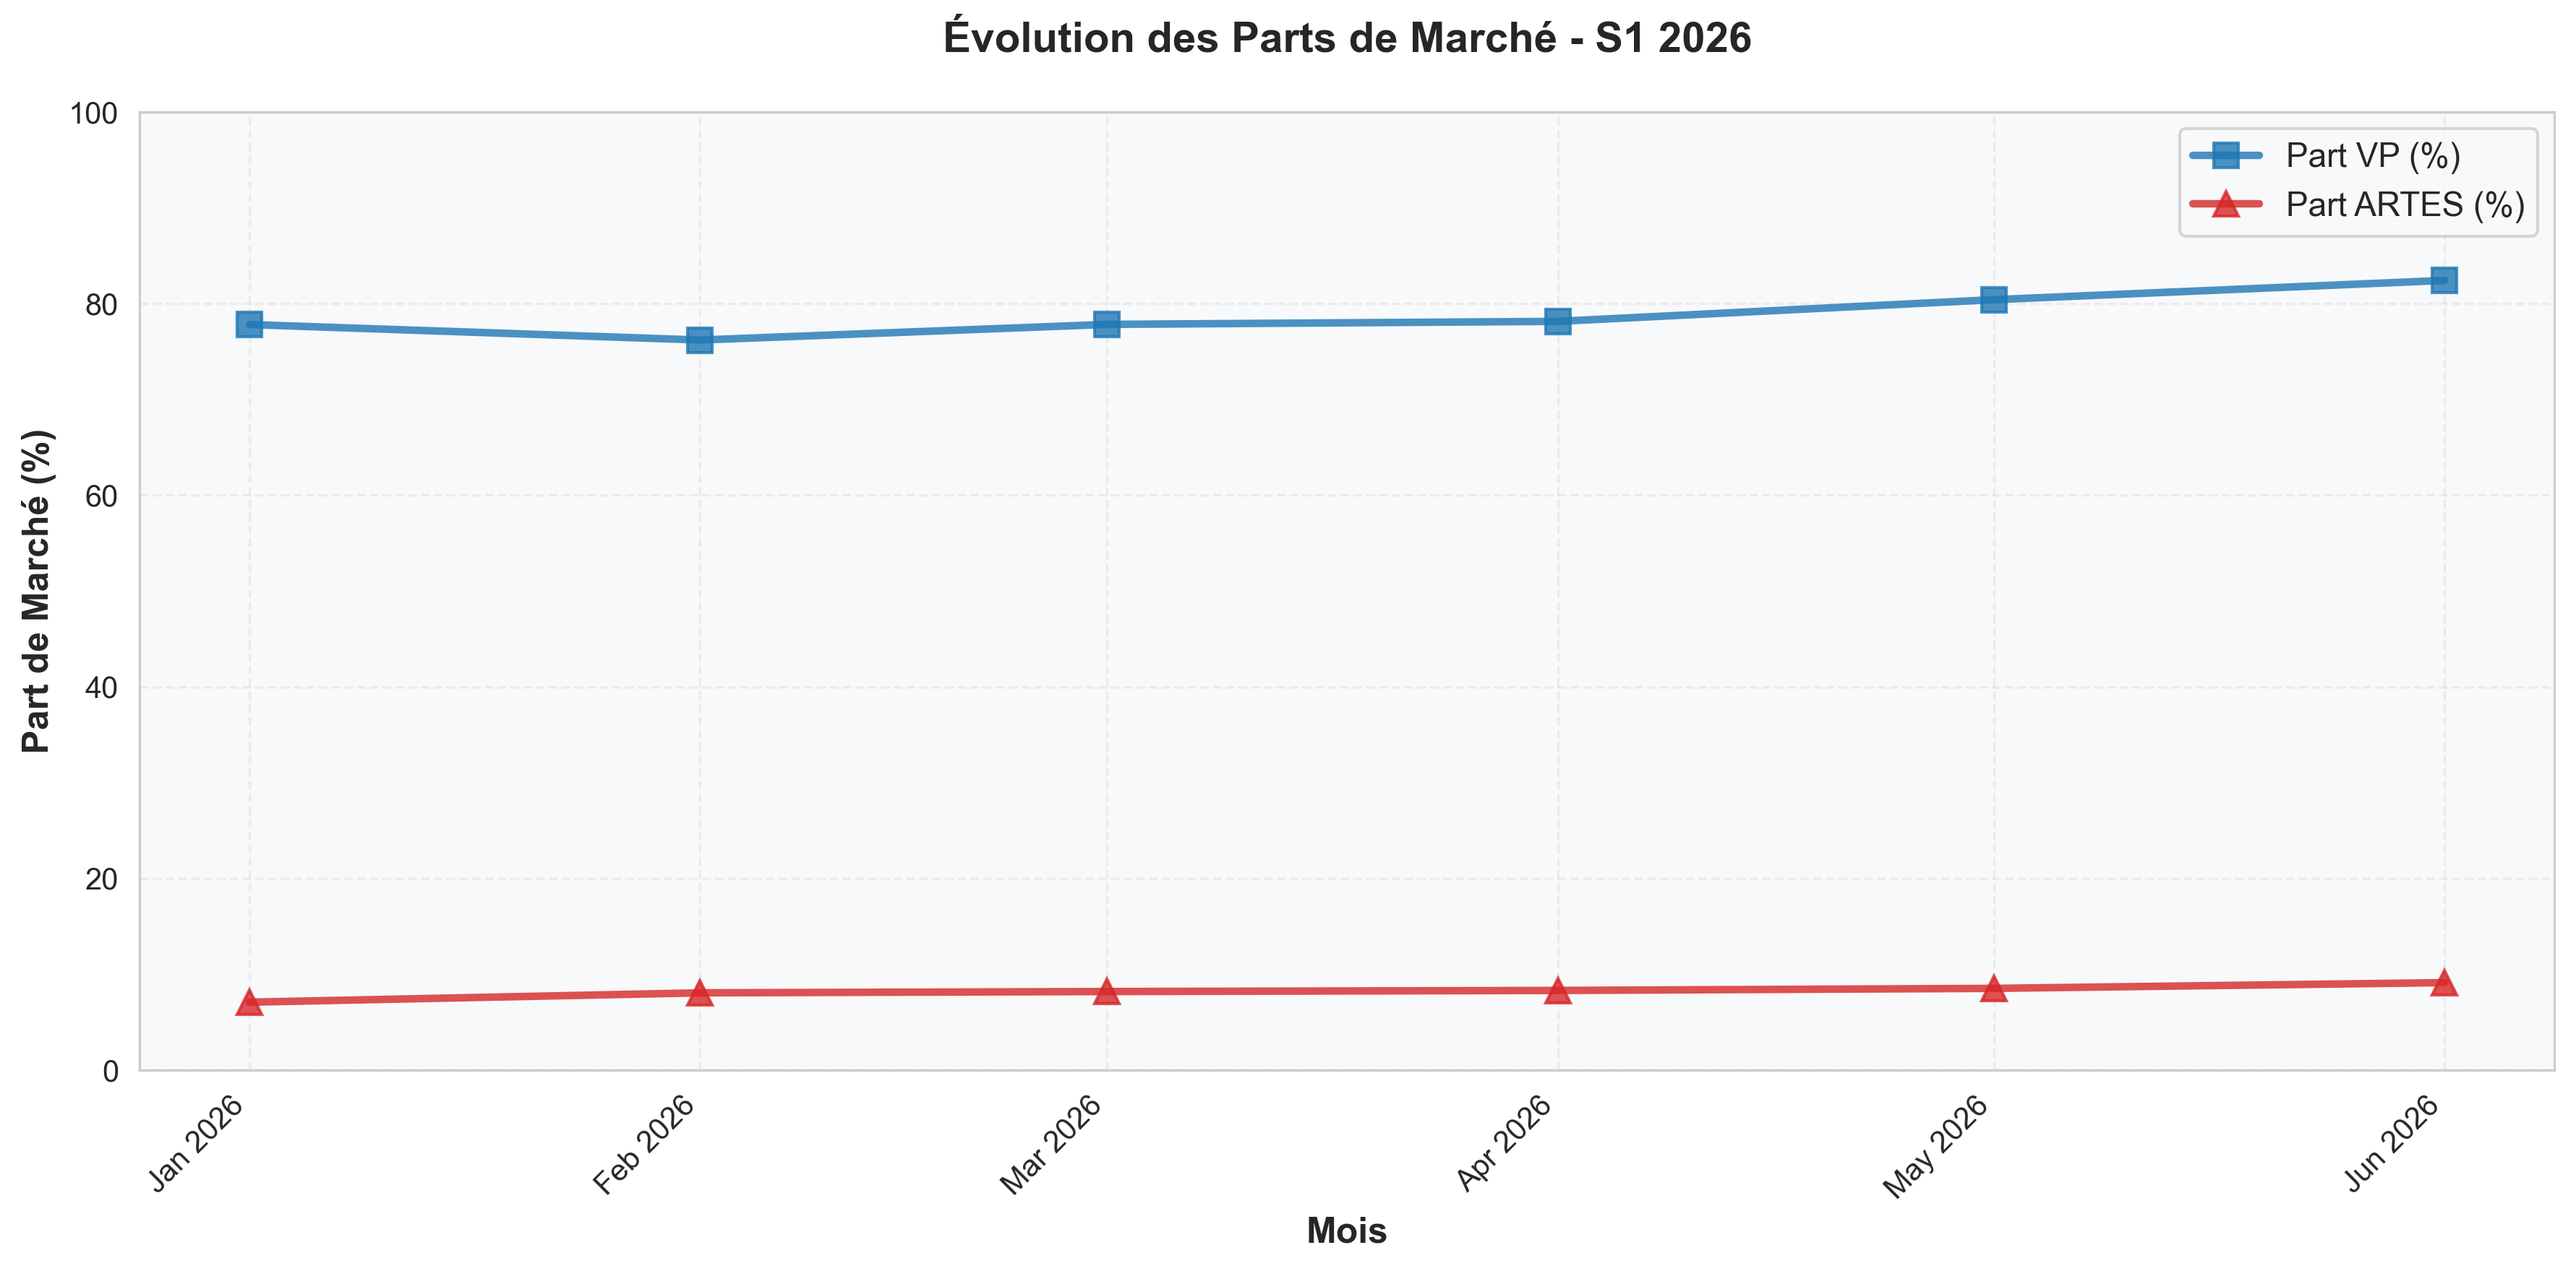
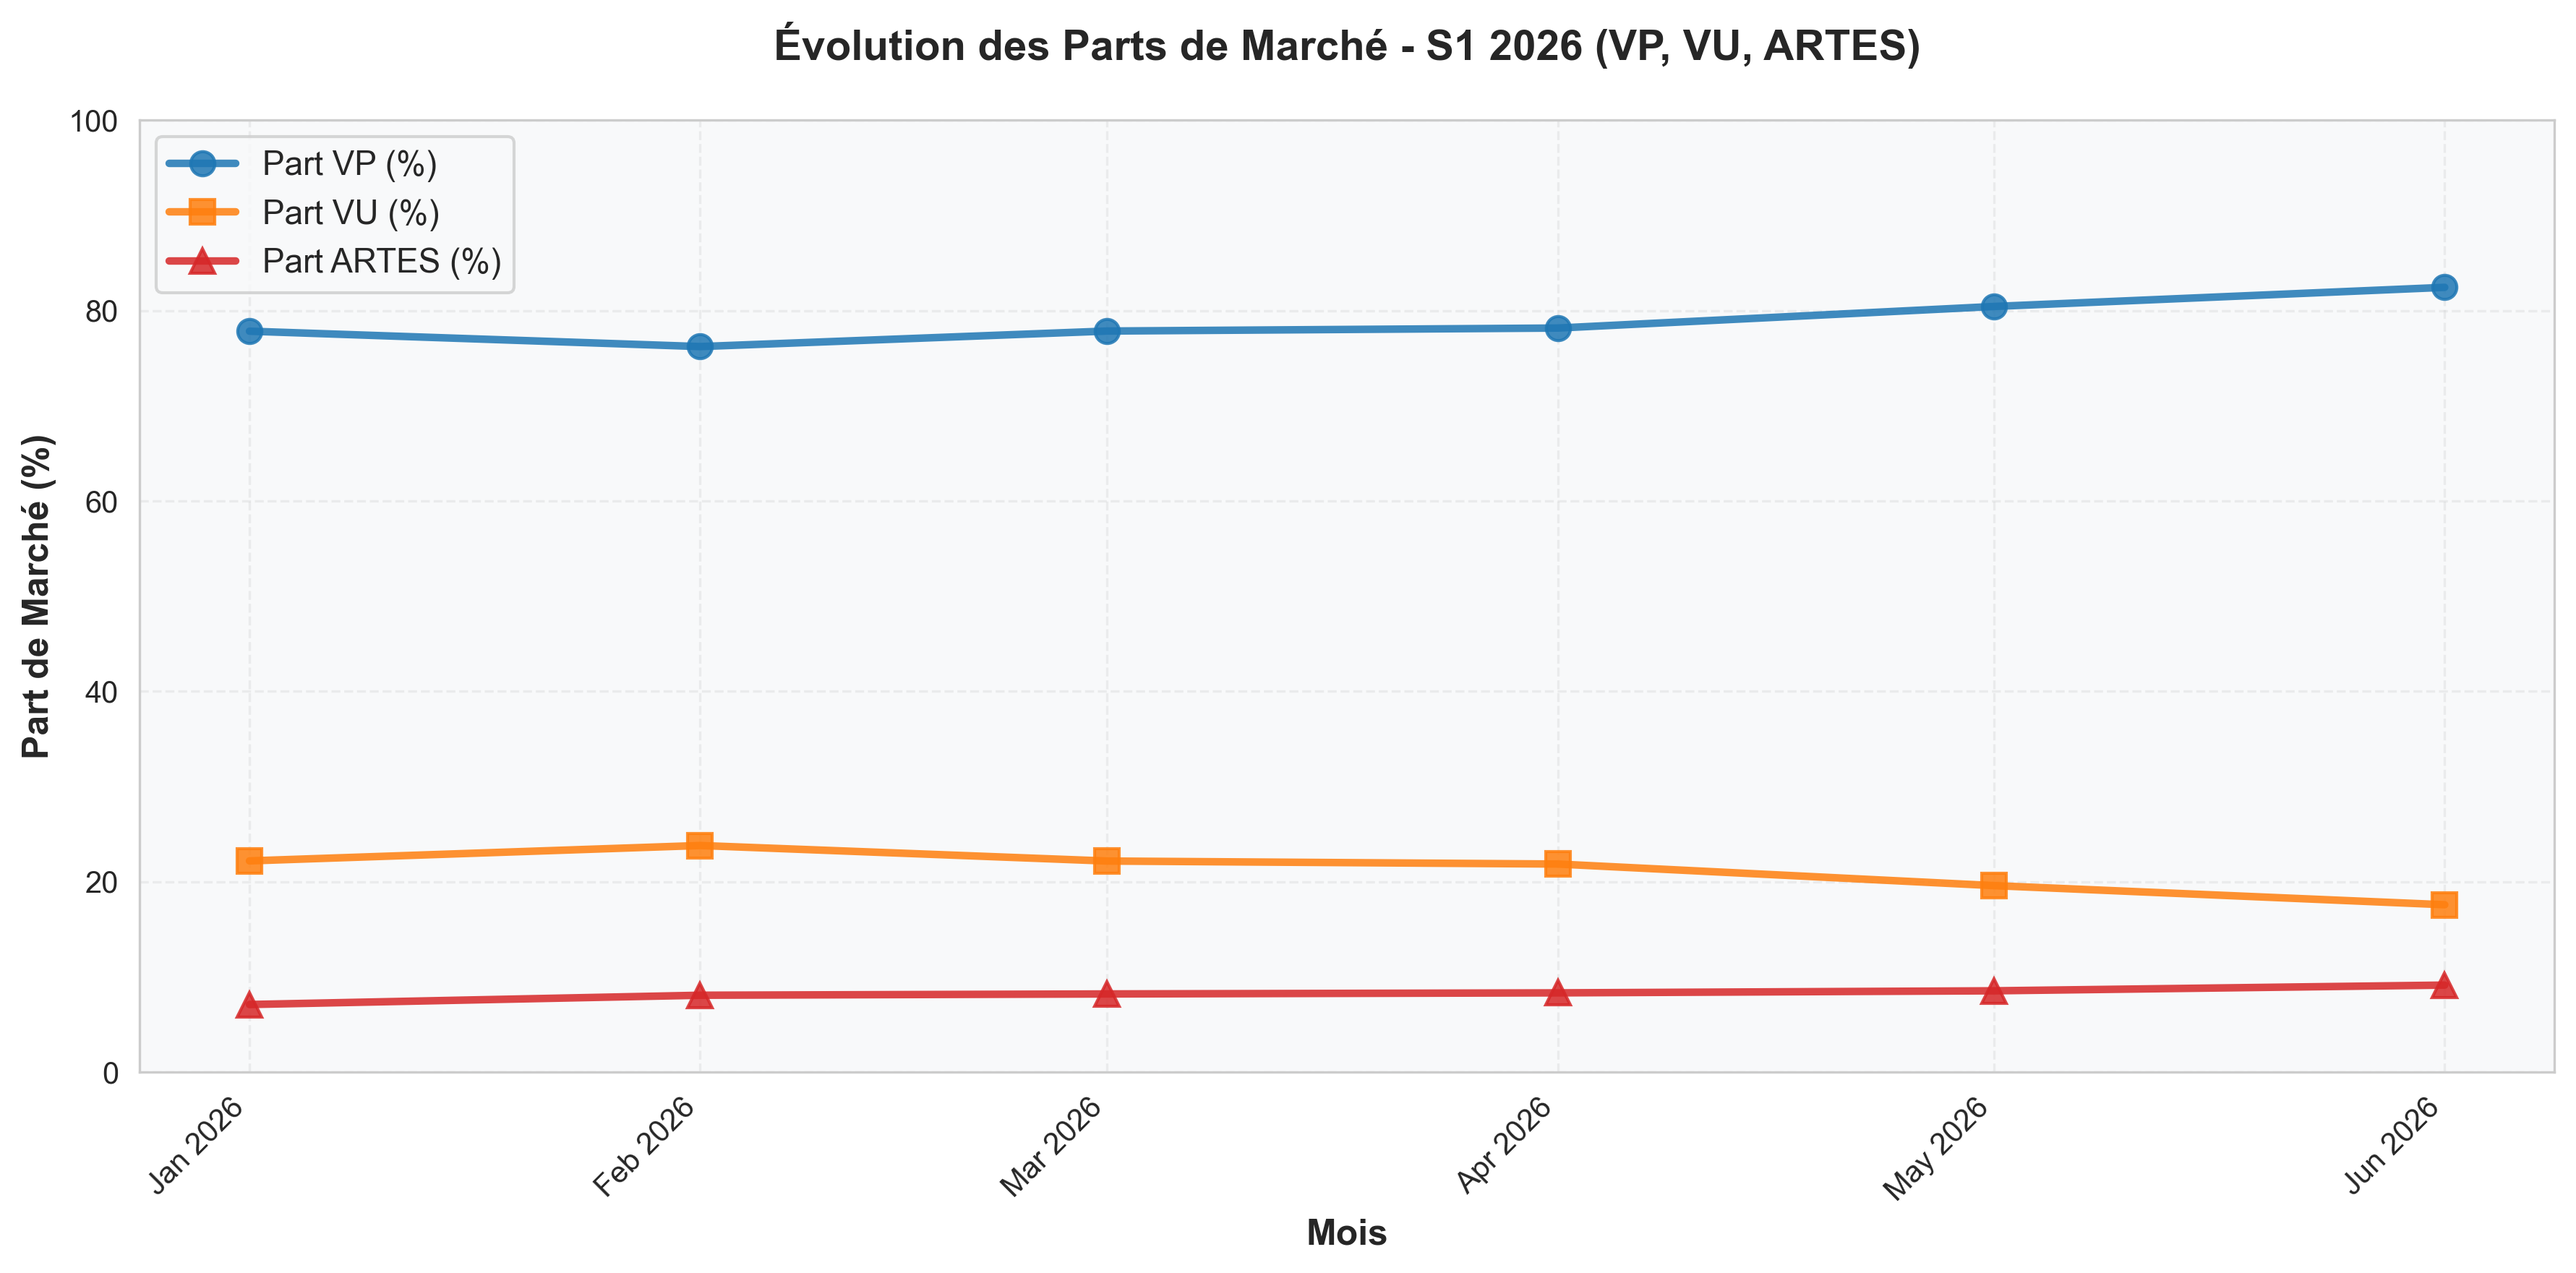
Enhance charts: add VU market share to chart 16, improve scenario visibility and logging in chart 17

diff --git a/step7_visualizations.py b/step7_visualizations.py
@@ -240,14 +240,35 @@ def create_chart_artes_volume(forecast, project_root):
 
 
 def create_chart_market_share(forecast, project_root):
+    """
+    Chart 4: Market share evolution for VP, VU, and ARTES
+    Shows all three key market segments over time
+    """
     fig, ax = plt.subplots(figsize=(CHART_WIDTH, CHART_HEIGHT))
-    part_vp = forecast.get('PART_VP', forecast.get('PART_VP', np.zeros(len(forecast))))
+    
+    # Get market shares
+    part_vp = forecast.get('PART_VP', np.zeros(len(forecast)))
+    part_vu = 1 - part_vp  # VU share is complement of VP share
     part_artes = forecast.get('PREV_PART_ARTES', forecast.get('PART_ARTES', np.zeros(len(forecast))))
-    ax.plot(forecast['Date'], part_vp * 100, marker='s', linewidth=LINE_WIDTH, markersize=MARKER_SIZE, color=COLORS['vp'], label='Part VP (%)', alpha=0.8)
-    ax.plot(forecast['Date'], part_artes * 100, marker='^', linewidth=LINE_WIDTH, markersize=MARKER_SIZE, color=COLORS['artes'], label='Part ARTES (%)', alpha=0.8)
+    
+    # Plot all three shares
+    ax.plot(forecast['Date'], part_vp * 100, 
+            marker='o', linewidth=LINE_WIDTH, markersize=MARKER_SIZE, 
+            color=COLORS['vp'], label='Part VP (%)', alpha=0.85)
+    
+    ax.plot(forecast['Date'], part_vu * 100, 
+            marker='s', linewidth=LINE_WIDTH, markersize=MARKER_SIZE, 
+            color=COLORS['vu'], label='Part VU (%)', alpha=0.85)
+    
+    ax.plot(forecast['Date'], part_artes * 100, 
+            marker='^', linewidth=LINE_WIDTH, markersize=MARKER_SIZE, 
+            color=COLORS['artes'], label='Part ARTES (%)', alpha=0.85)
+    
+    # Formatting
     ax.set_xlabel('Mois', fontsize=12, fontweight='bold')
     ax.set_ylabel('Part de Marché (%)', fontsize=12, fontweight='bold')
-    ax.set_title('Évolution des Parts de Marché - S1 2026', fontsize=14, fontweight='bold', pad=20)
+    ax.set_title('Évolution des Parts de Marché - S1 2026 (VP, VU, ARTES)', 
+                 fontsize=14, fontweight='bold', pad=20)
     ax.xaxis.set_major_formatter(plt.matplotlib.dates.DateFormatter('%b %Y'))
     ax.xaxis.set_major_locator(plt.matplotlib.dates.MonthLocator())
     plt.xticks(rotation=45, ha='right')
@@ -255,6 +276,7 @@ def create_chart_market_share(forecast, project_root):
     ax.grid(alpha=ALPHA_GRID, linestyle='--')
     ax.set_axisbelow(True)
     ax.set_ylim([0, 100])
+    
     plt.tight_layout()
     output_path = os.path.join(project_root, '16_Forecast_Market_Share.png')
     plt.savefig(output_path, dpi=DPI, bbox_inches='tight')
@@ -263,37 +285,82 @@ def create_chart_market_share(forecast, project_root):
 
 
 def create_chart_scenarios(project_root):
+    """
+    Chart 5: Scenario comparison - baseline vs optimiste vs prudent
+    Shows best case, normal case, and worst case forecasts
+    """
     baseline_file = os.path.join(project_root, 'step6_forecast_s1_2026_baseline.csv')
     optimiste_file = os.path.join(project_root, 'step6_forecast_s1_2026_optimiste.csv')
     prudent_file = os.path.join(project_root, 'step6_forecast_s1_2026_prudent.csv')
+    
+    # Check if baseline exists (required)
     if not os.path.exists(baseline_file):
-        print(f"  ⚠  Scenario files not found. Skipping scenario comparison chart.")
+        print(f"  ⚠  Baseline scenario file not found.")
+        print(f"     Run: python add_macro_scenarios.py && python step6_modeling.py")
         return
+    
+    # Load baseline (required)
+    print(f"  ✅ Loading baseline scenario...")
     baseline = pd.read_csv(baseline_file)
-    optimiste = pd.read_csv(optimiste_file) if os.path.exists(optimiste_file) else None
-    prudent = pd.read_csv(prudent_file) if os.path.exists(prudent_file) else None
     baseline['Date'] = pd.to_datetime(baseline['Date'])
-    if optimiste is not None:
+    
+    # Load optimiste (optional)
+    optimiste = None
+    if os.path.exists(optimiste_file):
+        optimiste = pd.read_csv(optimiste_file)
         optimiste['Date'] = pd.to_datetime(optimiste['Date'])
-    if prudent is not None:
+        print(f"  ✅ Loaded optimiste scenario")
+    else:
+        print(f"  ⚠  Optimiste file not found")
+    
+    # Load prudent (optional)
+    prudent = None
+    if os.path.exists(prudent_file):
+        prudent = pd.read_csv(prudent_file)
         prudent['Date'] = pd.to_datetime(prudent['Date'])
+        print(f"  ✅ Loaded prudent scenario")
+    else:
+        print(f"  ⚠  Prudent file not found")
+    
+    # Create figure
     fig, ax = plt.subplots(figsize=(CHART_WIDTH, CHART_HEIGHT))
-    ax.plot(baseline['Date'], baseline['PREV_TOTAL_MARCHE'], marker='o', linewidth=LINE_WIDTH, markersize=MARKER_SIZE, color=COLORS['baseline'], label='Baseline', alpha=0.85)
+    
+    # Plot baseline (always)
+    ax.plot(baseline['Date'], baseline['PREV_TOTAL_MARCHE'], 
+            marker='o', linewidth=3, markersize=9, 
+            color=COLORS['baseline'], label='Baseline (Normal)', alpha=0.9, zorder=3)
+    
+    # Plot optimiste (if available)
     if optimiste is not None:
-        ax.plot(optimiste['Date'], optimiste['PREV_TOTAL_MARCHE'], marker='s', linewidth=LINE_WIDTH, markersize=MARKER_SIZE, color=COLORS['optimiste'], label='Optimiste', alpha=0.85)
+        ax.plot(optimiste['Date'], optimiste['PREV_TOTAL_MARCHE'], 
+                marker='s', linewidth=LINE_WIDTH, markersize=MARKER_SIZE, 
+                color=COLORS['optimiste'], label='Optimiste (Strong Growth)', alpha=0.85, zorder=2)
+    
+    # Plot prudent (if available)
     if prudent is not None:
-        ax.plot(prudent['Date'], prudent['PREV_TOTAL_MARCHE'], marker='^', linewidth=LINE_WIDTH, markersize=MARKER_SIZE, color=COLORS['prudent'], label='Prudent', alpha=0.85)
+        ax.plot(prudent['Date'], prudent['PREV_TOTAL_MARCHE'], 
+                marker='^', linewidth=LINE_WIDTH, markersize=MARKER_SIZE, 
+                color=COLORS['prudent'], label='Prudent (Weak Growth)', alpha=0.85, zorder=2)
+    
+    # Fill between optimiste and prudent if both available
     if (optimiste is not None) and (prudent is not None):
-        ax.fill_between(baseline['Date'], prudent['PREV_TOTAL_MARCHE'], optimiste['PREV_TOTAL_MARCHE'], alpha=ALPHA_FILL, color='gray', label='Plage de prévision')
+        ax.fill_between(baseline['Date'], 
+                        prudent['PREV_TOTAL_MARCHE'], 
+                        optimiste['PREV_TOTAL_MARCHE'],
+                        alpha=ALPHA_FILL, color='gray', label='Plage de prévision', zorder=1)
+    
+    # Formatting
     ax.set_xlabel('Mois', fontsize=12, fontweight='bold')
     ax.set_ylabel('Total Marché (Ventes)', fontsize=12, fontweight='bold')
-    ax.set_title('Comparaison des Scénarios Macroéconomiques - S1 2026', fontsize=14, fontweight='bold', pad=20)
+    ax.set_title('Comparaison des Scénarios Macroéconomiques - S1 2026', 
+                 fontsize=14, fontweight='bold', pad=20)
     ax.xaxis.set_major_formatter(plt.matplotlib.dates.DateFormatter('%b %Y'))
     ax.xaxis.set_major_locator(plt.matplotlib.dates.MonthLocator())
     plt.xticks(rotation=45, ha='right')
     ax.legend(fontsize=11, loc='best')
     ax.grid(alpha=ALPHA_GRID, linestyle='--')
     ax.set_axisbelow(True)
+    
     plt.tight_layout()
     output_path = os.path.join(project_root, '17_Forecast_Scenarios_Comparison.png')
     plt.savefig(output_path, dpi=DPI, bbox_inches='tight')
